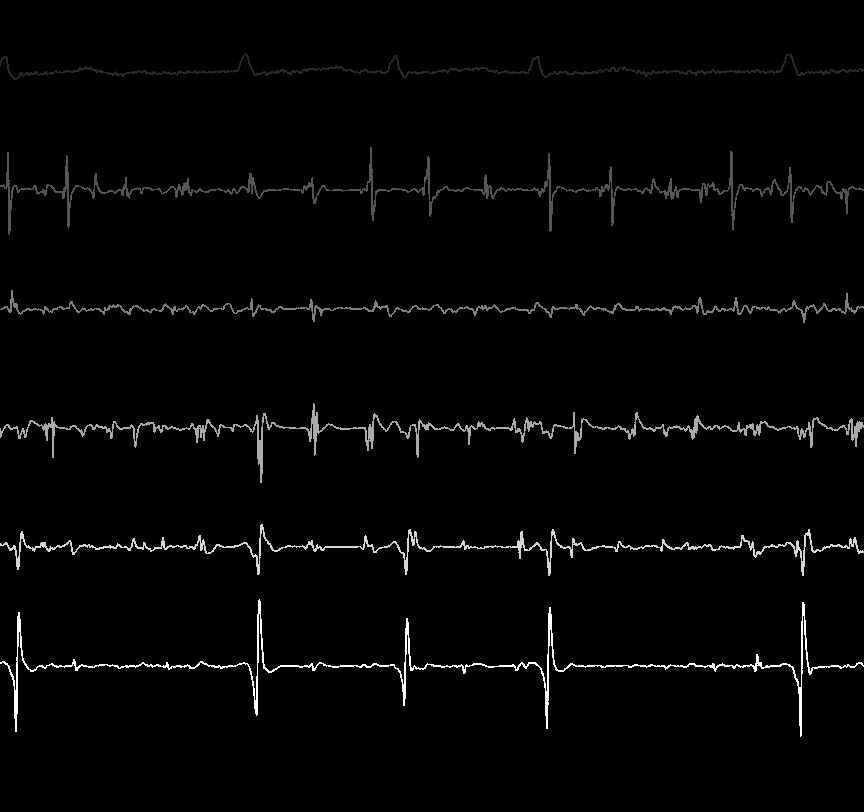
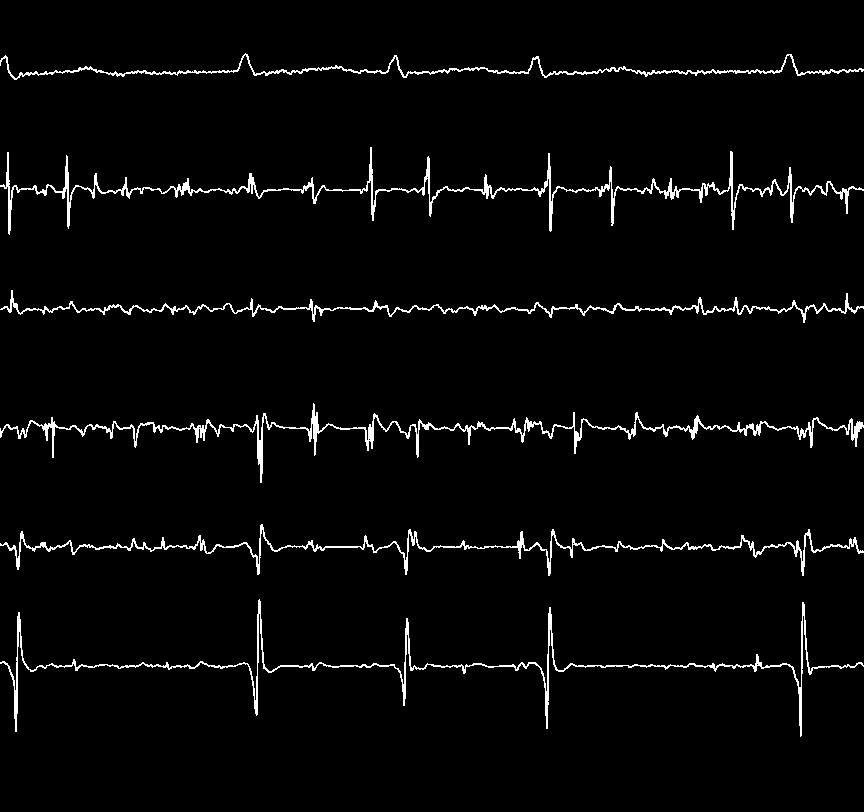
Binarized image after labeling.

diff --git a/process.py b/process.py
@@ -7,7 +7,7 @@ from scipy import ndimage
 from PIL import Image
 
 def main():
-    image_path = 'images/test07.jpg'
+    image_path = 'images/test06.jpg'
     save_path = 'output_images/output' + image_path[-6:-4] + '.png'
     image = cv2.imread(image_path, flags=cv2.IMREAD_GRAYSCALE)
     height, width = image.shape
@@ -21,9 +21,9 @@ def main():
     cc = ndimage.find_objects(labeled_image)
     print('There are {} connected components.'.format(cc_num))
     cc_areas = ndimage.sum(image, labeled_image, range(cc_num + 1))
-    area_mask = cc_areas < 40000
+    area_mask = cc_areas < 90000
     labeled_image[area_mask[labeled_image]] = 0
-    labeled_image = cv2.bitwise_not(labeled_image)
+    labeled_image = np.where(labeled_image == 0, 255, 0)
     plt.imsave(save_path, labeled_image, cmap='binary')
     print('Image is saved to: {}'.format(save_path))
 
